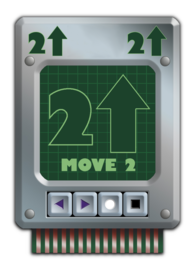
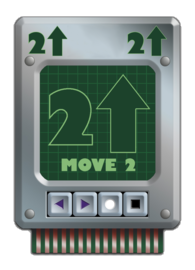
added alpha channel to card assets

diff --git a/src/test/java/inf112/skeleton/app/ProgramCardDeckTest.java b/src/test/java/inf112/skeleton/app/ProgramCardDeckTest.java
@@ -49,5 +49,7 @@ public class ProgramCardDeckTest {
         assertEquals(74, deck.numbersOfCardsLeft());
     }
 
+    //TODO: deckShouldNotContainSimilarCardsWithSamePriority
+
 
 }
